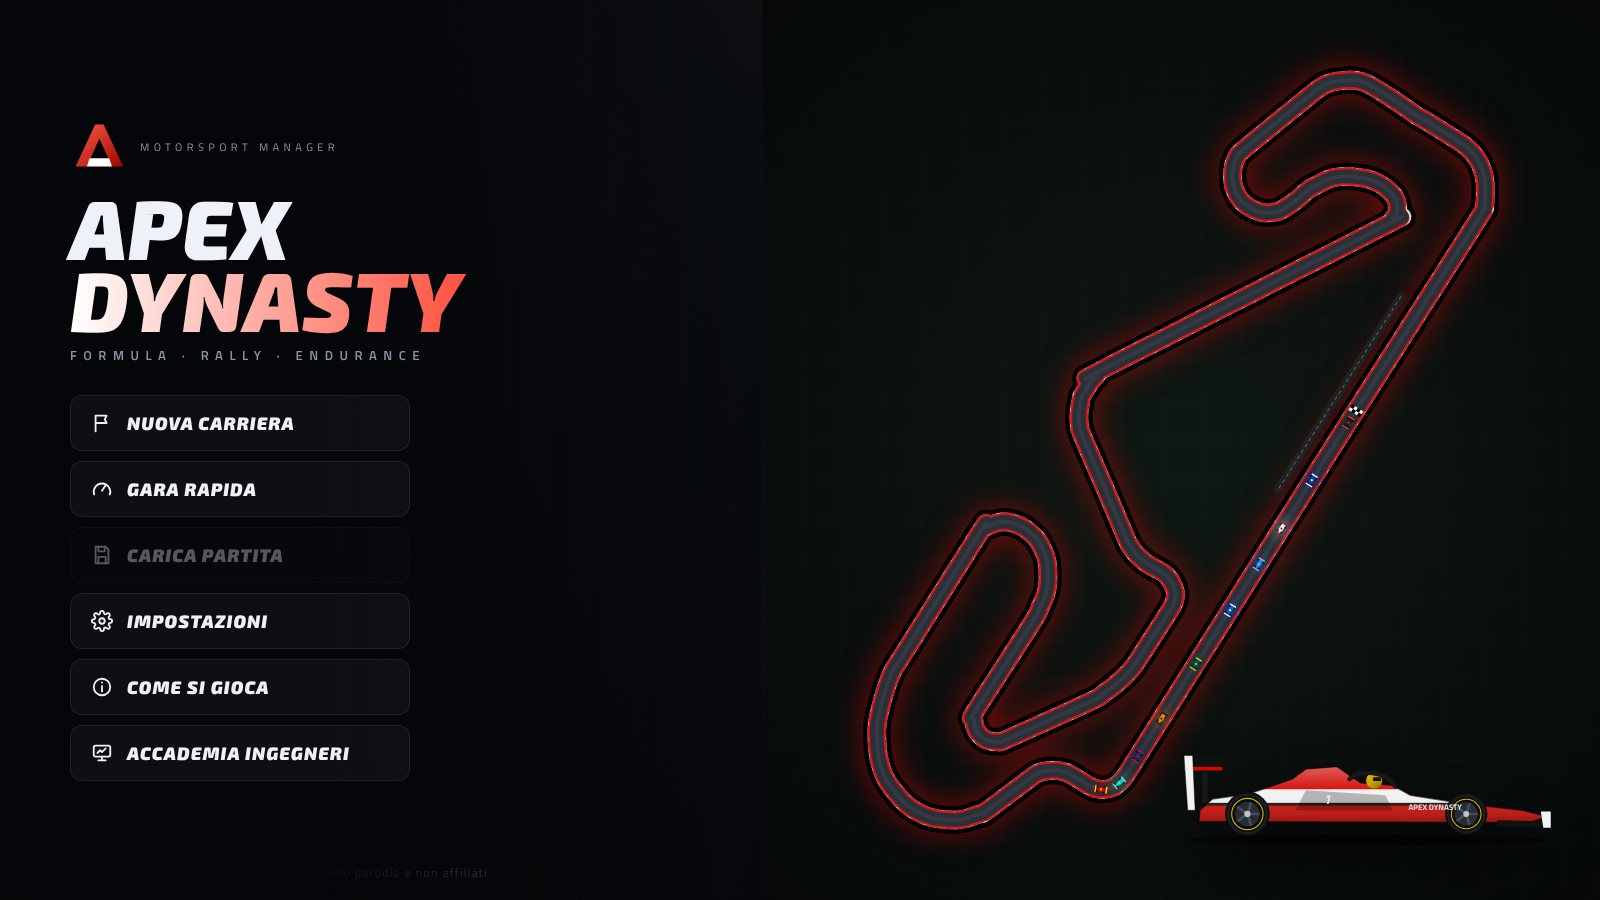
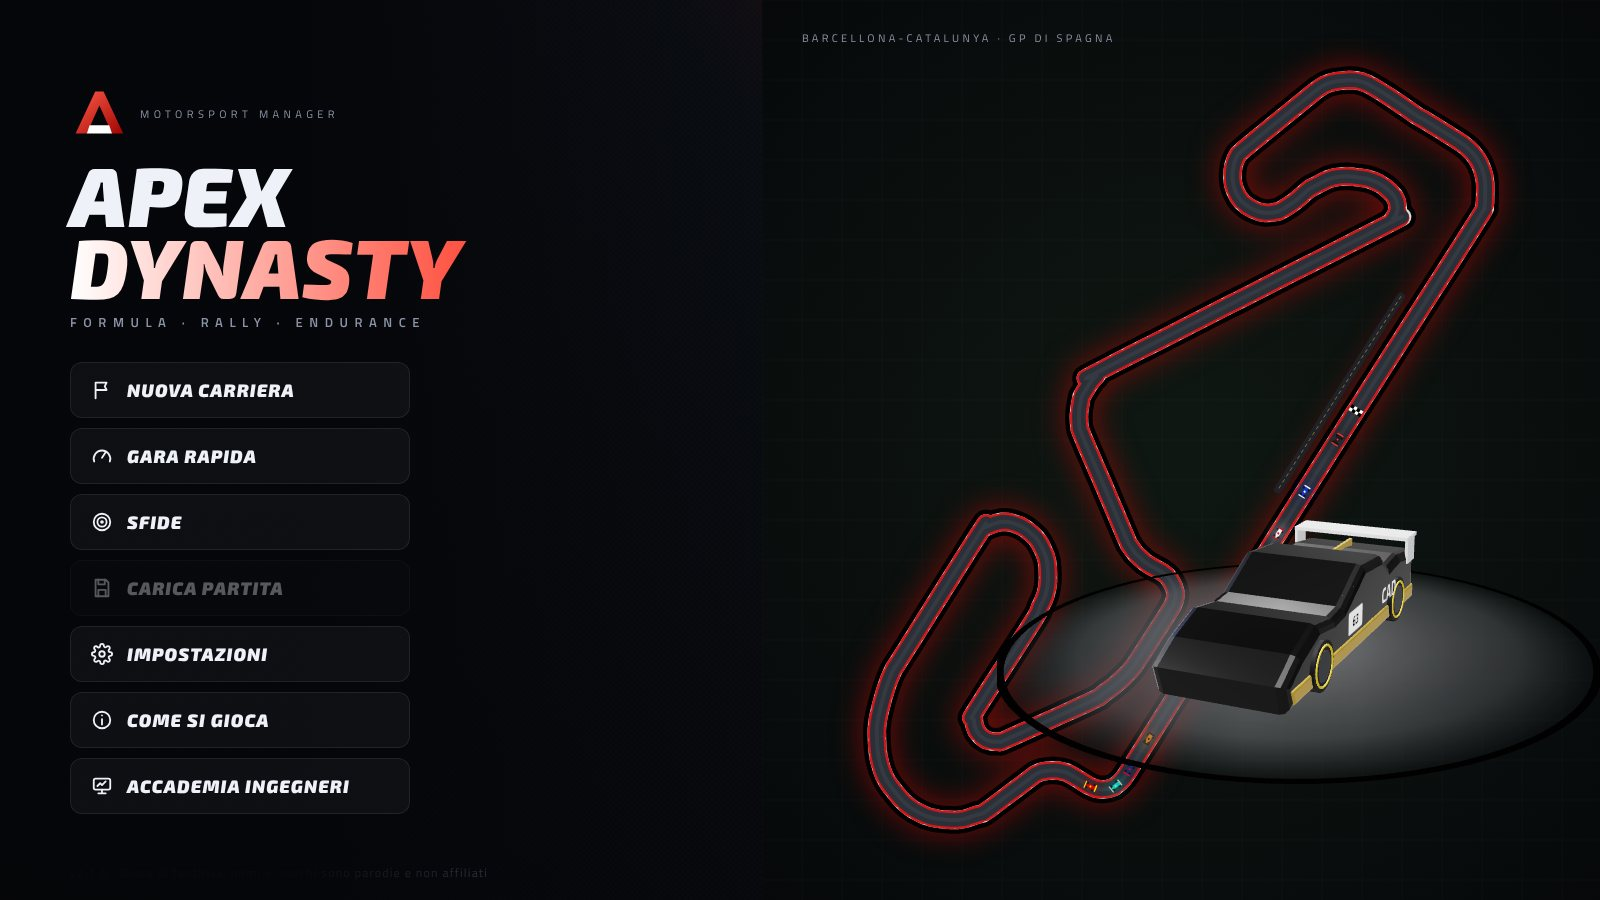
v2.2.0: sfide, sprint, traffico GT, replay, rally con salti, long run; sito aggiornato
Claude-Session: https://claude.ai/code/session_016m2WYSifcgJTzz2tKjj853

Changed region(s): [[0.0312, 0.0933, 0.3125, 0.9022], [0.625, 0.5289, 0.9688, 0.9333], [0.8125, 0.4667, 0.8438, 0.4978]]

diff --git a/site-src/index.html b/site-src/index.html
@@ -86,13 +86,13 @@ footer { border-top:1px solid var(--line); padding:40px 0; color:var(--muted); f
     <h1 class="title">Apex<span>Dynasty</span></h1>
     <p class="lead">Diventa Team Principal e ingegnere di pista. <b>Circuiti reali</b>, fisica del giro, degrado gomme realistico e gare in <b>3D</b> o sulla mappa 2D. Costruisci una dinastia in <b>Formula</b>, <b>Rally</b> ed <b>Endurance</b>.</p>
     <div class="cta"><a class="btn red" href="#download">⬇ Scarica gratis</a><a class="btn" href="play/">▶ Gioca nel browser</a></div>
-    <div class="badges"><span class="badge">macOS Apple Silicon</span><span class="badge">macOS Intel</span><span class="badge">Windows 10/11</span><span class="badge">Linux</span><span class="badge">Browser</span><span class="badge">v2.1: 3D · circuiti reali · ERS · radio · musica</span></div>
+    <div class="badges"><span class="badge">macOS Apple Silicon</span><span class="badge">macOS Intel</span><span class="badge">Windows 10/11</span><span class="badge">Linux</span><span class="badge">Browser</span><span class="badge">v2.2: 3D · circuiti reali · ERS · radio · sfide · musica</span></div>
   </div>
   <div class="hero-shot"><img src="shots/race.jpg" alt="Gara in diretta"></div>
 </div></header>
 
 <section id="novita" style="padding-top:40px"><div class="wrap">
-  <h2 class="sec-title">Versione 2.1</h2>
+  <h2 class="sec-title">Versione 2.2</h2>
   <p class="sec-sub">Un aggiornamento enorme: tutto quello che serve a un gestionale motorsport di livello.</p>
   <div class="features">
     <div class="feat"><div class="ic">🗺</div><b>24 circuiti reali</b><p>Geometria reale di Monza, Spa, Suzuka, Silverstone, Monaco, Interlagos, Las Vegas, Madring… più la Sarthe e il Fuji per l'Endurance. Lunghezze e tempi sul giro reali.</p></div>
@@ -109,6 +109,12 @@ footer { border-top:1px solid var(--line); padding:40px 0; color:var(--muted); f
     <div class="feat"><div class="ic">🎬</div><b>Regia televisiva</b><p>Intro cinematografica sul circuito durante il semaforo e regia automatica che segue i duelli più accesi.</p></div>
     <div class="feat"><div class="ic">🎤</div><b>Stampa e paddock</b><p>Conferenze stampa dopo ogni gara ed eventi con scelte e conseguenze: pezzi sperimentali, indagini della Federazione, sponsor, staff.</p></div>
     <div class="feat"><div class="ic">🏆</div><b>Gala e Albo d'oro</b><p>Premi di fine stagione, campioni di ogni anno, leggende del paddock e record della pista.</p></div>
+    <div class="feat"><div class="ic">🏅</div><b>Sfide con medaglie</b><p>8 scenari in 3 categorie: Monaco sotto il diluvio, la notte della Sarthe, i salti di Finlandia... Conquista l'oro.</p></div>
+    <div class="feat"><div class="ic">⚡</div><b>Weekend Sprint</b><p>Sei GP con la gara Sprint del sabato: punti dall'1° all'8°, poi il Gran Premio.</p></div>
+    <div class="feat"><div class="ic">🚦</div><b>Traffico GT</b><p>Nell'Endurance le hypercar doppiano la classe GT: ogni doppiaggio costa tempo, di notte e sotto la pioggia di più.</p></div>
+    <div class="feat"><div class="ic">⟲</div><b>Replay 3D</b><p>Rivedi sorpassi e incidenti con un clic (o tasto R): camera car, TV, elicottero e onboard.</p></div>
+    <div class="feat"><div class="ic">⛰</div><b>Rally con dislivelli e salti</b><p>Prove speciali 3D con colline e dossi: ad alta velocità la macchina decolla.</p></div>
+    <div class="feat"><div class="ic">🔬</div><b>Long run in prova</b><p>Senza dati misurati le previsioni sul degrado sono stimate: fai i long run per una strategia precisa, come un vero ingegnere.</p></div>
     <div class="feat"><div class="ic">🗺</div><b>Mappa 2D pro</b><p>Zone DRS, settori colorati e posizioni di tutte le vetture: la base perfetta per gestire la gara.</p></div>
   </div>
 </div></section>
@@ -146,12 +152,13 @@ footer { border-top:1px solid var(--line); padding:40px 0; color:var(--muted); f
     <figure><img src="shots/endurance.jpg" alt="" loading="lazy"><figcaption>Endurance: vista elicottero</figcaption></figure>
     <figure><img src="shots/strategy.jpg" alt="" loading="lazy"><figcaption>Pianificatore strategico con curve di degrado</figcaption></figure>
     <figure><img src="shots/telemetry.jpg" alt="" loading="lazy"><figcaption>Mappa 2D reale e telemetria</figcaption></figure>
-    <figure><img src="shots/rally.jpg" alt="" loading="lazy"><figcaption>Rally 3D: decisioni live del copilota</figcaption></figure>
+    <figure><img src="shots/rally.jpg" alt="" loading="lazy"><figcaption>Rally 3D in Finlandia: sterrato, colline e salti</figcaption></figure>
     <figure><img src="shots/car.jpg" alt="" loading="lazy"><figcaption>Centro Tecnico e garage 3D</figcaption></figure>
     <figure><img src="shots/hub.jpg" alt="" loading="lazy"><figcaption>Quartier generale</figcaption></figure>
     <figure><img src="shots/career.jpg" alt="" loading="lazy"><figcaption>Carriera: livelli e albero delle abilità</figcaption></figure>
     <figure><img src="shots/practice.jpg" alt="" loading="lazy"><figcaption>Prove libere: lavoro sull'assetto</figcaption></figure>
     <figure><img src="shots/quick.jpg" alt="" loading="lazy"><figcaption>Gara Rapida</figcaption></figure>
+    <figure><img src="shots/challenges.jpg" alt="" loading="lazy"><figcaption>Sfide con medaglie</figcaption></figure>
     <figure><img src="shots/press.jpg" alt="" loading="lazy"><figcaption>Conferenza stampa</figcaption></figure>
     <figure><img src="shots/event.jpg" alt="" loading="lazy"><figcaption>Decisioni dal paddock</figcaption></figure>
     <figure><img src="shots/halloffame.jpg" alt="" loading="lazy"><figcaption>Albo d'oro e leggende</figcaption></figure>

diff --git a/README.md b/README.md
@@ -18,6 +18,14 @@
 - **Progressione**: livelli manager, albero di abilità, obiettivi stagionali, trofei
 - **Gara Rapida** e **garage 3D**
 
+## Novità della versione 2.2
+
+- **Sfide** con medaglie oro/argento/bronzo (8 scenari)
+- **Weekend Sprint**, **traffico GT** nell'Endurance, **replay 3D**
+- **Rally 3D** con dislivelli e salti, **menu con vettura 3D**
+- **Long run** in prova libera per misurare il degrado
+- Opzioni di **realismo** (guasti, danni, aggressività AI), consigli contestuali
+
 ## Novità della versione 2.1
 
 - **ERS/Override**: gestione della batteria ibrida in gara
